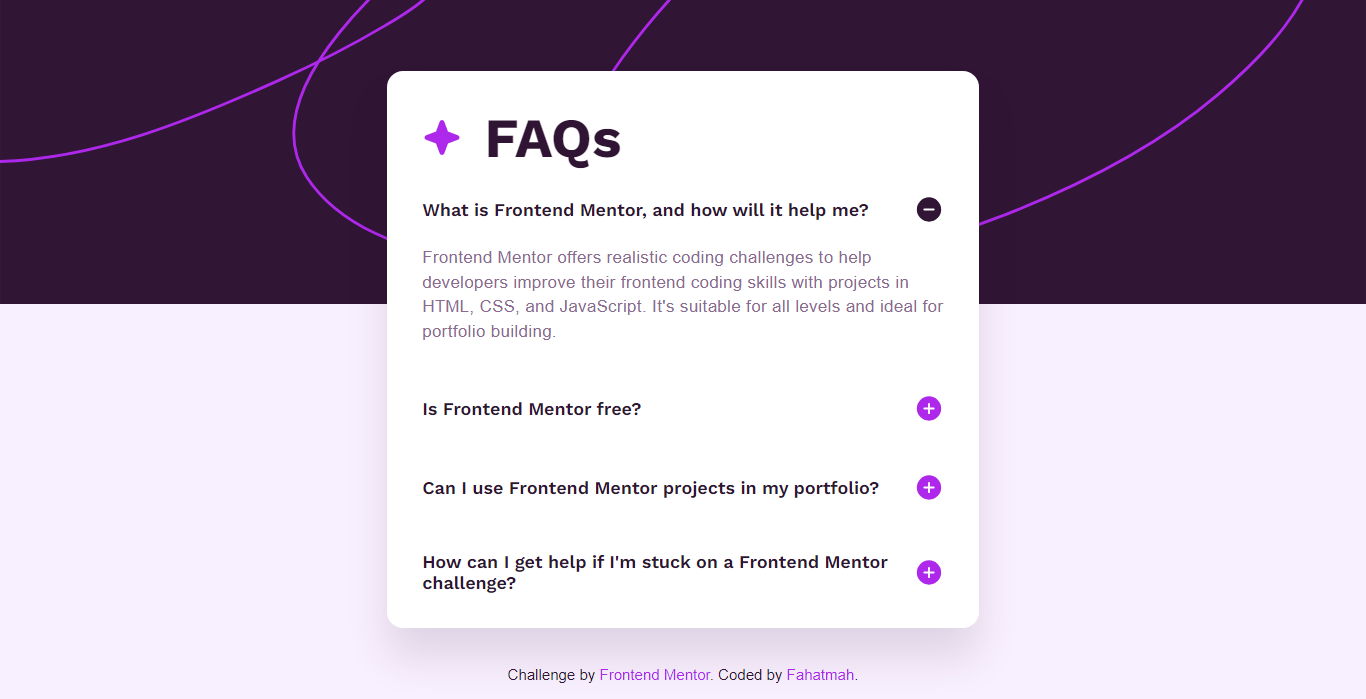
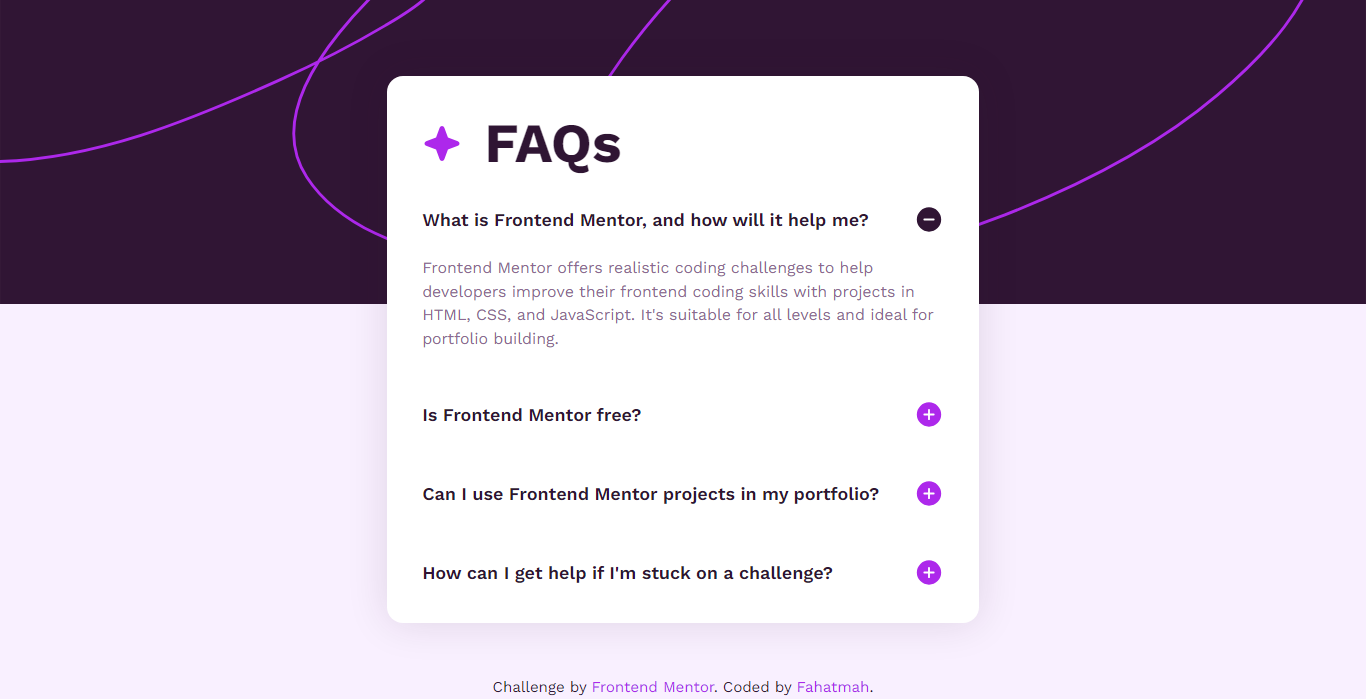
updated styles

diff --git a/style.css b/style.css
@@ -29,7 +29,7 @@
 }
 
 @font-face {
-  font-family: 'WorkSans-Thin';
+  font-family: 'WorkSans-Regular';
   src: url('/assets/fonts/static/WorkSans-Regular.ttf') format('truetype');
   font-weight: 400;
   font-style: normal;
@@ -70,7 +70,7 @@ article.faqs {
   margin-inline: auto;
   border-radius: 1rem;
   padding: 1.3rem;
-  box-shadow: 0 30px 40px hsla(292, 42%, 14%, 0.126);
+  box-shadow: 0 0 40px hsla(292, 42%, 14%, 0.126);
 }
 
 .faqs h1,
@@ -93,7 +93,7 @@ article.faqs {
 .articles {
   flex-direction: column;
   gap: 1.5rem;
-  margin-top: 1.5rem;
+  margin-top: 1.8rem;
 }
 
 .articles .article .question p {
@@ -117,10 +117,8 @@ article.faqs {
 }
 
 .articles .article p.answer {
-  font-family: var(--ff-reg);
   color: var(--clr-300);
-  font-size: clamp(0.85rem, 0.7796rem + 0.3005vw, 1.05rem);
-  letter-spacing: 0.5px;
+  font-size: clamp(0.85rem, 0.7972rem + 0.2254vw, 1rem);
   line-height: 1.5;
   width: 100%;
   height: 0;
@@ -134,7 +132,7 @@ article.faqs {
 
 footer {
   position: absolute;
-  bottom: 1rem;
+  bottom: 0.2rem;
   font-family: var(--ff-reg);
   font-size: clamp(0.8rem, 0.7472rem + 0.2254vw, 0.95rem);
   color: var(--clr-400);

diff --git a/index.html b/index.html
@@ -49,7 +49,7 @@
           <div class="article">
             <div class="question">
               <p>
-                How can I get help if I'm stuck on a Frontend Mentor challenge?
+                How can I get help if I'm stuck on a challenge?
               </p>
               <img src="/assets/images/icon-plus.svg" alt="" />
             </div>
